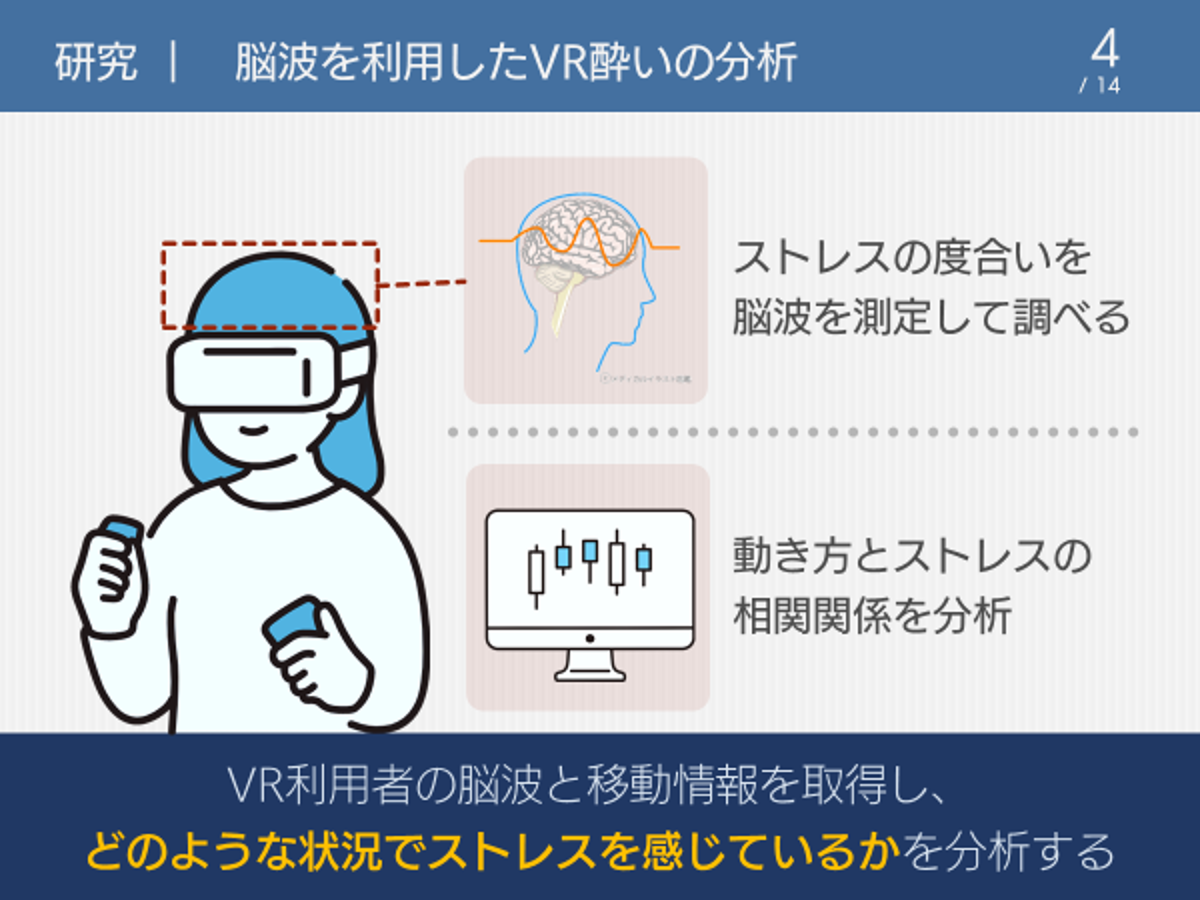
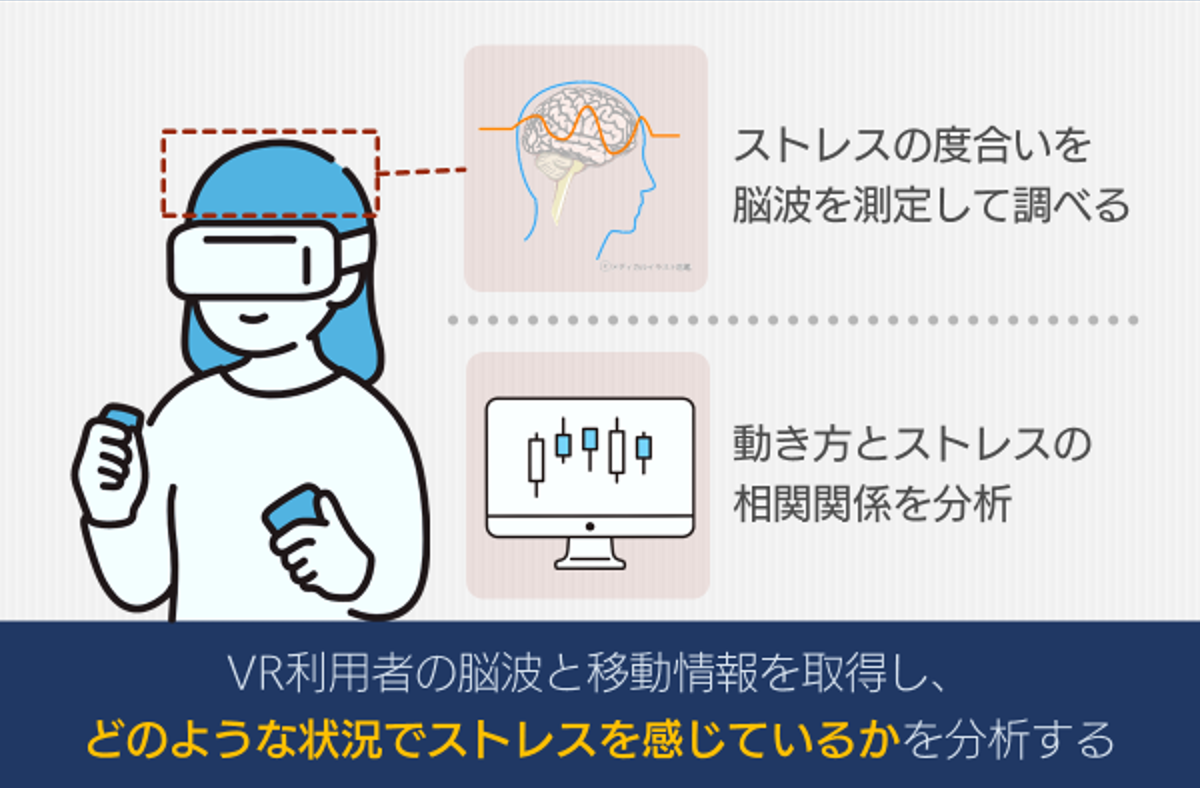
研究欄の画像とフッターのレイアウトを修正

diff --git a/index.html b/index.html
@@ -101,7 +101,7 @@
         }
         table tbody li{
             color: #606060;
-            background: #fffb;
+            background: #ffffff00;
             
             font-size: 80%;
 
@@ -311,9 +311,10 @@
 
     <!-- サークル活動 -->
     <h2>サークル活動</h2>
-    <p>モノづくりサークルに所属</p>
-    <p>UnityやHSPを利用したゲームアプリを制作し、文化祭に出展しました。</p>
-    <p>また、地域の企業や他大学サークルと共同でイベントを開催しました。</p>
+    <p>モノづくりサークルに所属し、パソコンやスマートフォン向けのゲームアプリの開発を経験しました。</p>
+    <p>ゲームアプリの制作にはUnityやHSPを利用し、大学の文化祭に出展しました。</p>
+    <p>また、小学生向けプログラミング教室の運営やハッカソンなどを地域の企業や他大学サークルと共同でイベントを開催しました。</p>
+
     <!-- 研究活動 -->
     <h2>研究活動</h2>
     <img src="images/study.png" width="100%">
@@ -334,7 +335,7 @@
     <table>
         <thead>
             <tr align="center">
-                <th colspan="1">ツール</th>
+                <th colspan="1">言語</th>
                 <th>利用年数</th>
                 <th>利用例</th>
             </tr>
@@ -497,7 +498,7 @@
 
 <!-- Footer -->
 <footer>
-    <nav class="navbar navbar-expand-x1 bg-dark navbar-dark bottom justify-content-center">
+    <nav class="navbar navbar-expand-x1 bg-dark navbar-dark bottom justify-content-center" style="margin: 0%;">
         <p style="color:#f0f0f0;">©2022 KTR</p>
     </nav>
 </footer>
